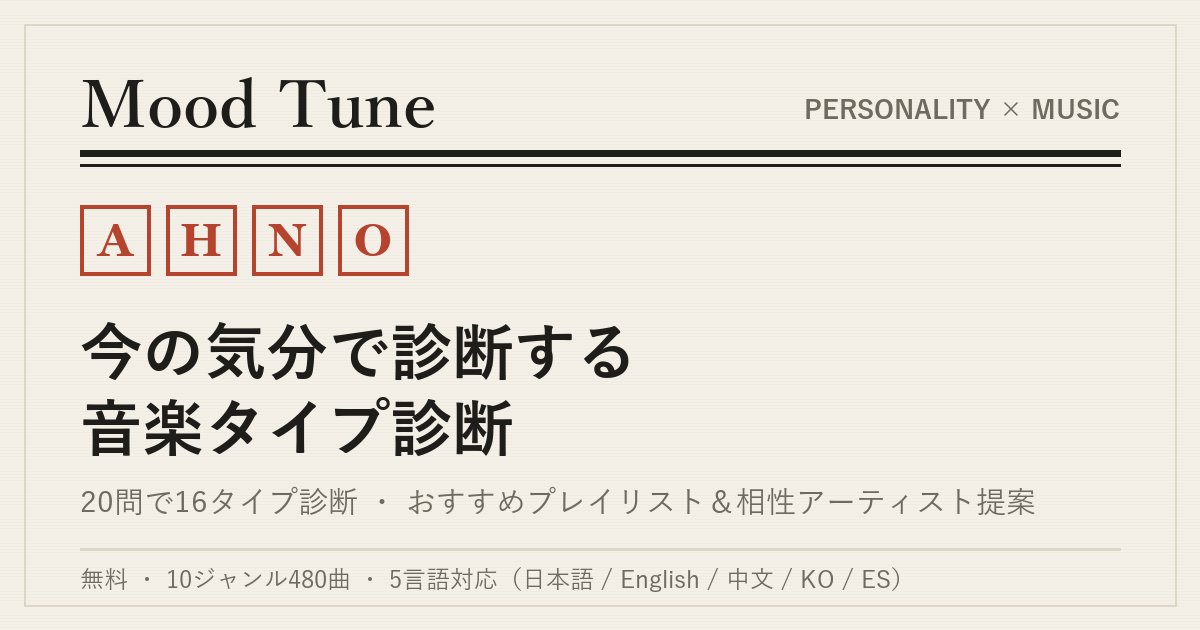
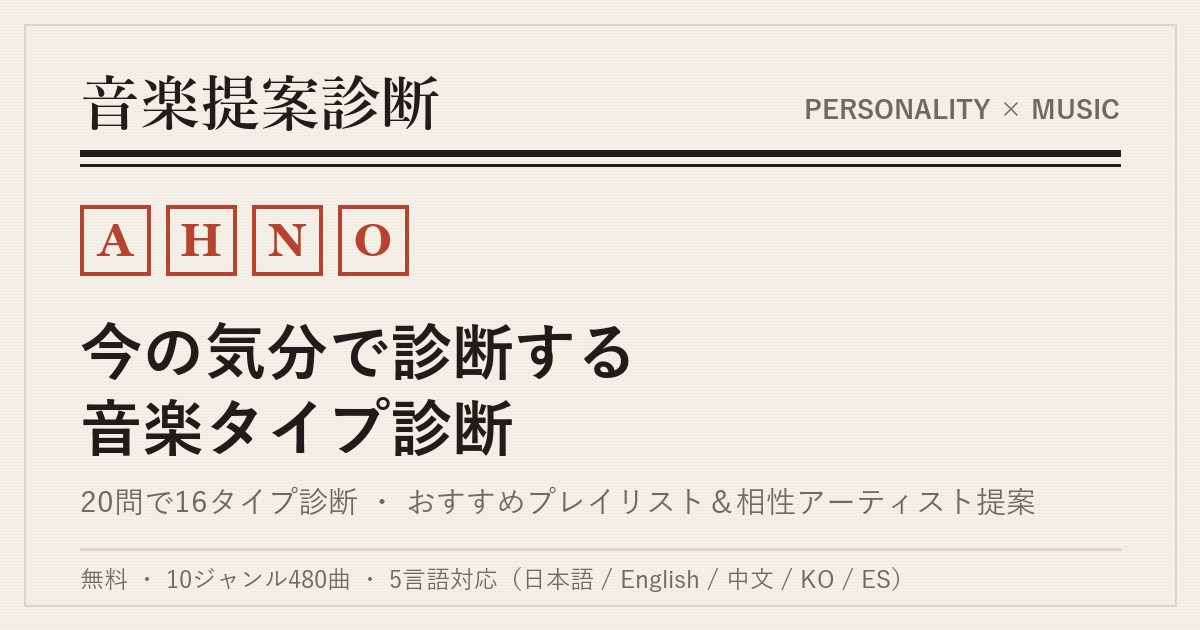
改名: Mood Tune → 音楽提案診断（同名アプリ回避・SEO最適化）

Changed region(s): [[0.0617, 0.1206, 0.37, 0.2111]]

diff --git a/index.html b/index.html
@@ -4,7 +4,7 @@
 <meta charset="UTF-8">
 <meta name="viewport" content="width=device-width, initial-scale=1.0">
 <meta name="google-site-verification" content="rleyMqA1_KTP2Z6fIMTfvJdChoDchmeZp3S_vicji24" />
-<title>音楽診断 Mood Tune｜今の気分でわかる音楽タイプ診断・無料プレイリスト提案</title>
+<title>音楽提案診断｜今の気分でわかる音楽タイプ診断・無料プレイリスト提案</title>
 <meta name="description" content="20の質問に答えるだけで、今の気分にぴったりの音楽タイプを16タイプから無料診断。J-POP・K-POP・洋楽・ロック・ボカロ・アニソン・HIPHOP・クラシック・ジャズなど10ジャンル480曲から、おすすめプレイリストと相性のいいアーティストを提案。MBTI風の音楽性格診断アプリ（日本語・英語・中国語・韓国語・スペイン語対応）。">
 <meta name="keywords" content="音楽診断,音楽 性格診断,音楽タイプ診断,気分 音楽,プレイリスト 診断,おすすめ 音楽 診断,音楽 マッチング,ムード診断,MBTI 音楽,診断メーカー 音楽,J-POP診断,K-POP診断,ボカロ診断,アニソン診断,洋楽診断,無料診断,性格診断,music personality test,mood music quiz,music taste test">
 <meta name="author" content="Mood Tune">
@@ -13,8 +13,8 @@
 <meta name="theme-color" content="#b5432e">
 <!-- Open Graph / SNSシェア -->
 <meta property="og:type" content="website">
-<meta property="og:site_name" content="Mood Tune">
-<meta property="og:title" content="音楽診断 Mood Tune｜今の気分でわかる音楽タイプ診断">
+<meta property="og:site_name" content="音楽提案診断">
+<meta property="og:title" content="音楽提案診断｜今の気分でわかる音楽タイプ診断">
 <meta property="og:description" content="20問で今の気分を診断し、16タイプの音楽性格からあなたに合うプレイリスト＆アーティストを無料提案。J-POP/K-POP/洋楽/ロック/ボカロ/アニソン他10ジャンル対応。">
 <meta property="og:url" content="https://pooonz.github.io/mood-tune/">
 <meta property="og:image" content="https://pooonz.github.io/mood-tune/og-image.png">
@@ -25,7 +25,7 @@
 <meta property="og:locale:alternate" content="es_ES">
 <!-- Twitter Card -->
 <meta name="twitter:card" content="summary_large_image">
-<meta name="twitter:title" content="音楽診断 Mood Tune｜今の気分でわかる音楽タイプ診断">
+<meta name="twitter:title" content="音楽提案診断｜今の気分でわかる音楽タイプ診断">
 <meta name="twitter:description" content="20問で今の気分を診断し、16タイプの音楽性格からあなたに合うプレイリスト＆アーティストを無料提案。">
 <meta name="twitter:image" content="https://pooonz.github.io/mood-tune/og-image.png">
 <!-- 構造化データ -->
@@ -33,8 +33,8 @@
 {
   "@context": "https://schema.org",
   "@type": "WebApplication",
-  "name": "Mood Tune",
-  "alternateName": "音楽タイプ診断 Mood Tune",
+  "name": "音楽提案診断",
+  "alternateName": "音楽タイプ診断",
   "url": "https://pooonz.github.io/mood-tune/",
   "description": "今の気分を20問で診断し、16タイプの音楽性格からおすすめプレイリストと相性アーティストを提案する無料の音楽診断アプリ。",
   "applicationCategory": "EntertainmentApplication",
@@ -218,7 +218,7 @@
 <div class="wrap">
   <header>
     <div class="masthead">
-      <span class="logo serif">Mood Tune</span>
+      <span class="logo serif">音楽提案診断</span>
       <span class="langsel" id="langsel"></span>
     </div>
     <div class="sub" id="brandSub"></div>
@@ -481,8 +481,8 @@ const I18N = {
     chemBestDesc:"同じ温度で、違う音の世界を知っている相手。プレイリストを交換すると世界が広がります。",
     chemOppDesc:"あなたにない全てを持つ相手。分かり合えたとき、最強の音楽仲間になります。",
     btnCard:"画像で保存",
-    share:(n,c)=>`私の音楽タイプは【${n}】（${c}）でした。 #MoodTune`,
-    footer:"MOOD TUNE — 気分で診断する音楽タイプ"},
+    share:(n,c)=>`私の音楽タイプは【${n}】（${c}）でした。 #音楽提案診断`,
+    footer:"音楽提案診断 — 気分で診断する音楽タイプ"},
   axis:{A:{left:"アゲ",right:"チル"},B:{left:"ハッピー",right:"エモ"},C:{left:"生音",right:"電子"},D:{left:"王道",right:"開拓"}},
   buckets:{AH:"アゲ×ハッピー",AE:"アゲ×エモ",CH:"チル×ハッピー",CE:"チル×エモ"},
   genres:{west:"洋楽",jpop:"J-POP",kpop:"K-POP",rock:"ロック",vocaloid:"ボカロ",edm:"電子・チル",anime:"アニソン",hiphop:"HIPHOP",classical:"クラシック",jazz:"ジャズ"},
@@ -570,8 +570,8 @@ const I18N = {
     chemBestDesc:"Same temperature, a different sound world. Swap playlists and your map expands.",
     chemOppDesc:"They hold everything you don't. Understand each other, and you're unstoppable.",
     btnCard:"Save as image",
-    share:(n,c)=>`My music type is "${n}" (${c}). #MoodTune`,
-    footer:"MOOD TUNE — A MOOD-BASED MUSIC DIAGNOSIS"},
+    share:(n,c)=>`My music type is "${n}" (${c}). #OngakuTeianShindan`,
+    footer:"ONGAKU TEIAN SHINDAN — MOOD-BASED MUSIC TYPE DIAGNOSIS"},
   axis:{A:{left:"Hyped",right:"Chill"},B:{left:"Bright",right:"Moody"},C:{left:"Acoustic",right:"Electronic"},D:{left:"Classic",right:"Explorer"}},
   buckets:{AH:"Hyped × Bright",AE:"Hyped × Moody",CH:"Chill × Bright",CE:"Chill × Moody"},
   genres:{west:"Western",jpop:"J-POP",kpop:"K-POP",rock:"Rock",vocaloid:"Vocaloid",edm:"Electronic",anime:"Anime",hiphop:"Hip-Hop",classical:"Classical",jazz:"Jazz"},
@@ -659,8 +659,8 @@ const I18N = {
     chemBestDesc:"温度相同、音色世界不同的人。交换歌单，世界随之打开。",
     chemOppDesc:"拥有你所没有的一切。相互理解之时，就是最强的音乐同伴。",
     btnCard:"保存为图片",
-    share:(n,c)=>`我的音乐类型是【${n}】（${c}）。 #MoodTune`,
-    footer:"MOOD TUNE — 以心情诊断的音乐类型"},
+    share:(n,c)=>`我的音乐类型是【${n}】（${c}）。 #音乐提案诊断`,
+    footer:"音乐提案诊断 — 以心情诊断的音乐类型"},
   axis:{A:{left:"嗨",right:"松弛"},B:{left:"明亮",right:"伤感"},C:{left:"原声",right:"电子"},D:{left:"经典",right:"探索"}},
   buckets:{AH:"嗨×明亮",AE:"嗨×伤感",CH:"松弛×明亮",CE:"松弛×伤感"},
   genres:{west:"欧美",jpop:"J-POP",kpop:"K-POP",rock:"摇滚",vocaloid:"VOCALOID",edm:"电子/Chill",anime:"动漫",hiphop:"嘻哈",classical:"古典",jazz:"爵士"},
@@ -748,8 +748,8 @@ const I18N = {
     chemBestDesc:"같은 온도로 다른 소리 세계를 아는 상대. 플레이리스트를 교환하면 세계가 넓어집니다.",
     chemOppDesc:"당신에게 없는 모든 것을 가진 상대. 서로를 이해하면 최강의 음악 친구가 됩니다.",
     btnCard:"이미지로 저장",
-    share:(n,c)=>`내 음악 타입은 【${n}】(${c}) 입니다. #MoodTune`,
-    footer:"MOOD TUNE — 기분으로 진단하는 음악 타입"},
+    share:(n,c)=>`내 음악 타입은 【${n}】(${c}) 입니다. #음악제안진단`,
+    footer:"음악 제안 진단 — 기분으로 진단하는 음악 타입"},
   axis:{A:{left:"업",right:"칠"},B:{left:"밝음",right:"감성"},C:{left:"어쿠스틱",right:"일렉"},D:{left:"정통",right:"탐험"}},
   buckets:{AH:"업×밝음",AE:"업×감성",CH:"칠×밝음",CE:"칠×감성"},
   genres:{west:"팝(서양)",jpop:"J-POP",kpop:"K-POP",rock:"록",vocaloid:"보컬로이드",edm:"일렉/칠",anime:"애니송",hiphop:"힙합",classical:"클래식",jazz:"재즈"},
@@ -837,8 +837,8 @@ const I18N = {
     chemBestDesc:"Misma temperatura, distinto mundo sonoro. Intercambien playlists y el mapa se expande.",
     chemOppDesc:"Tiene todo lo que a ti te falta. Si llegan a entenderse, serán imparables.",
     btnCard:"Guardar como imagen",
-    share:(n,c)=>`Mi tipo musical es «${n}» (${c}). #MoodTune`,
-    footer:"MOOD TUNE — DIAGNÓSTICO MUSICAL SEGÚN TU ÁNIMO"},
+    share:(n,c)=>`Mi tipo musical es «${n}» (${c}). #OngakuTeianShindan`,
+    footer:"ONGAKU TEIAN SHINDAN — DIAGNÓSTICO MUSICAL SEGÚN TU ÁNIMO"},
   axis:{A:{left:"Eufórico",right:"Tranquilo"},B:{left:"Alegre",right:"Melancólico"},C:{left:"Acústico",right:"Electrónico"},D:{left:"Clásico",right:"Explorador"}},
   buckets:{AH:"Eufórico × Alegre",AE:"Eufórico × Melancólico",CH:"Tranquilo × Alegre",CE:"Tranquilo × Melancólico"},
   genres:{west:"Internacional",jpop:"J-POP",kpop:"K-POP",rock:"Rock",vocaloid:"Vocaloid",edm:"Electrónica",anime:"Anime",hiphop:"Hip-Hop",classical:"Clásica",jazz:"Jazz"},
@@ -1161,8 +1161,8 @@ function buildCard(){
 
   // マストヘッド
   x.fillStyle='#1f1d1a';
-  x.font='600 62px '+CARD_SERIF;
-  x.fillText('Mood Tune', M, 138);
+  x.font='600 58px '+CARD_SERIF;
+  x.fillText('音楽提案診断', M, 138);
   x.font='24px '+CARD_SANS; x.fillStyle='#6f6a60'; x.textAlign='right';
   x.fillText(u.ui.startEyebrow, W-M, 132); x.textAlign='left';
   // 二重罫線